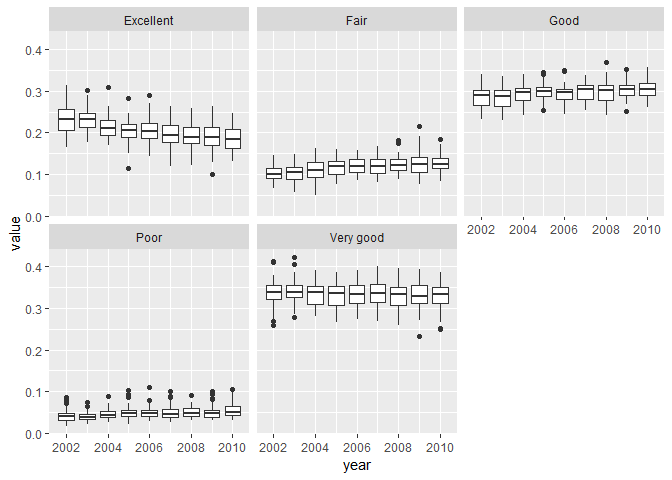
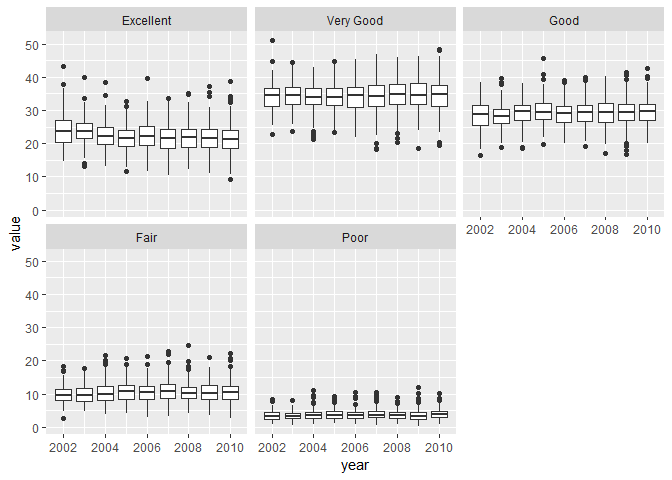
Final changes

diff --git a/hw3_ks3663.md b/hw3_ks3663.md
@@ -134,26 +134,45 @@ filtered_brfss %>%
 The averag proportion of excellent responses in NY State was highest in 2002 with around 24%. The average proportions were similar in 2006 and 2010. The standard deviation of the proportions was also highest in 2002.
 
 ``` r
-average_proportions = filtered_brfss %>%
-  select(locationabbr, locationdesc, year, response_f, sample_size) %>%
-  spread(response_f, value = sample_size) %>%
-  mutate(total_sample = (Excellent + `Very good` + Good + Fair + Poor)) %>%
-  mutate(proportion_ex = Excellent / total_sample, proportion_vg = `Very good` / total_sample, proportion_g = Good / total_sample, proportion_f = Fair / total_sample, proportion_p = Poor / total_sample) %>% # create column for averages
-  group_by(year, locationabbr) %>% # group by year and location
-  summarize(Excellent = mean(proportion_ex), `Very good` = mean(proportion_vg), Good = mean(proportion_g), Fair = mean(proportion_f), Poor = mean(proportion_p)) %>%
-  ungroup() %>%
-  gather(key = variable, value = value, 3:7) %>% # reorder dataset 
-  mutate(factor_variable = factor(variable, levels = c("Excellent", "Very good", "Good", "Fair", "Poor"), ordered = TRUE)) %>% 
-  arrange(factor_variable)
-
-  
-
-
-
-ggplot(average_proportions, aes(x = year, y = value, group = year)) + geom_boxplot() + facet_wrap(~variable) 
+average_proportions = filtered_brfss %>% 
+  select(locationabbr, locationdesc, year, response_f, data_value) %>% 
+  group_by(year, locationdesc, response_f) %>% 
+  spread(response_f, value = data_value) %>% 
+  summarize(
+    Excellent = mean(Excellent), `Very Good` = mean(`Very good`), 
+    Good = mean(Good), Fair = mean(Fair), 
+    Poor = mean(Poor)) %>% # calculate averages
+  ungroup() %>% 
+  gather(key = variable, value = value, 3:7)
+average_proportions
 ```
 
-![](hw3_ks3663_files/figure-markdown_github/unnamed-chunk-4-1.png)
+    ## # A tibble: 10,625 x 4
+    ##     year locationdesc                variable  value
+    ##    <int> <chr>                       <chr>     <dbl>
+    ##  1  2002 AK - Anchorage Municipality Excellent  27.9
+    ##  2  2002 AL - Jefferson County       Excellent  18.5
+    ##  3  2002 AR - Pulaski County         Excellent  24.1
+    ##  4  2002 AZ - Maricopa County        Excellent  21.6
+    ##  5  2002 AZ - Pima County            Excellent  26.6
+    ##  6  2002 CA - Los Angeles County     Excellent  22.7
+    ##  7  2002 CO - Adams County           Excellent  21.2
+    ##  8  2002 CO - Arapahoe County        Excellent  25.5
+    ##  9  2002 CO - Denver County          Excellent  22.2
+    ## 10  2002 CO - Jefferson County       Excellent  23.4
+    ## # ... with 10,615 more rows
+
+``` r
+average_proportions$response_f =
+  factor(average_proportions$variable, 
+         levels = c("Excellent", "Very Good", "Good", "Fair", "Poor"))
+
+ggplot(average_proportions, aes(x = year, y = value, group = year)) + geom_boxplot() + facet_wrap(~response_f) 
+```
+
+    ## Warning: Removed 28 rows containing non-finite values (stat_boxplot).
+
+![](hw3_ks3663_files/figure-markdown_github/unnamed-chunk-4-1.png) Overall, the average value of proportions of "Very Good" were the highest, while that of the "Poor" response was lowest. The "Poor" response had the lowest spread. Since most people responded with "Excellent", "Very Good", and "Good", their respective spreads were much bigger than that of "Fair" and "Poor", which less people responded with.
 
 Problem 2
 ---------
